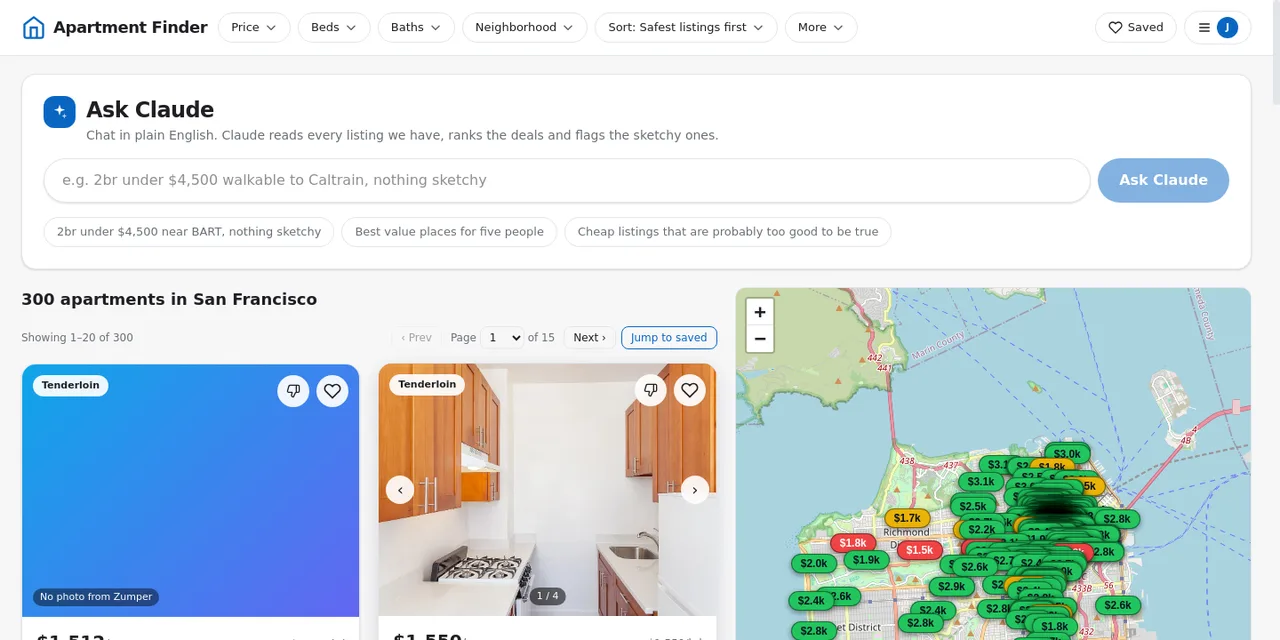
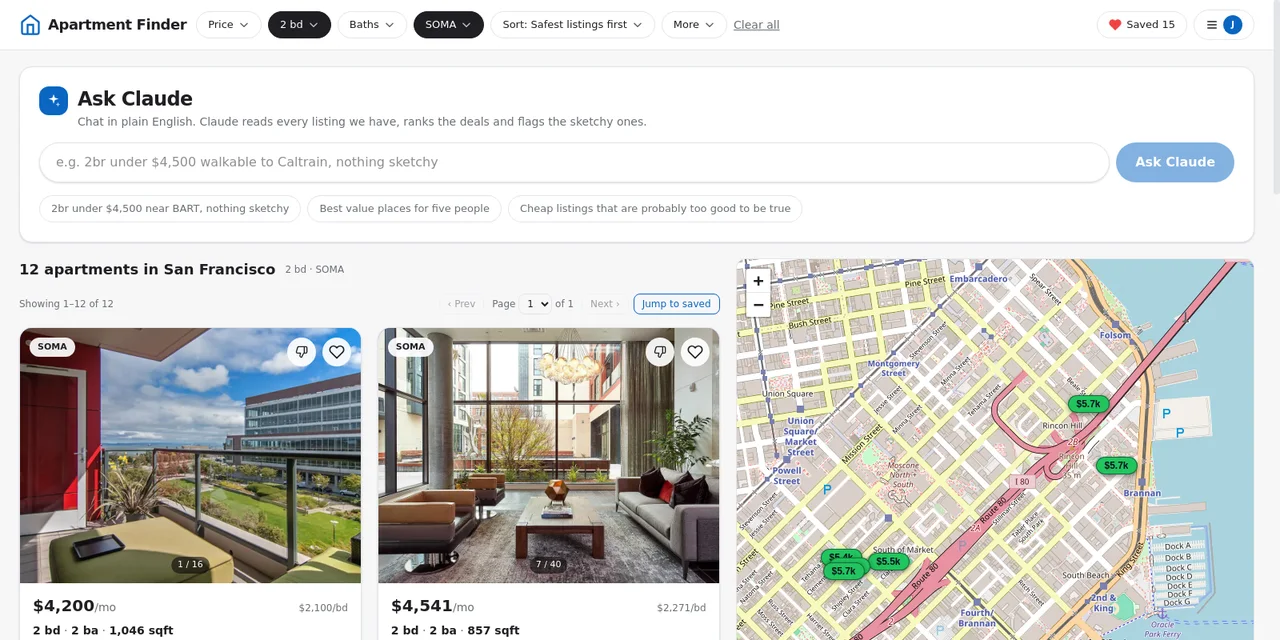
Apartment Finder: real production screenshots (hero, details, browsing)

diff --git a/projects/apartment-finder/index.html b/projects/apartment-finder/index.html
@@ -63,7 +63,7 @@
 
     <figure class="media">
       <img src="/screenshots/apartment-finder.webp" alt="Apartment Finder screenshot" width="1280" height="640" decoding="async">
-      <figcaption>The list view · filter pills, scam badge, and the map alongside</figcaption>
+      <figcaption>Signed in · Ask Claude up top, filter pills, photo cards and the map alongside</figcaption>
     </figure>
 
     <p>
@@ -87,6 +87,16 @@
       <li><strong>Claude over the inventory</strong>: natural-language questions are answered by Claude reading the stored listings through a fixed set of tools, so it ranks and filters real rows and says so when a constraint (pet policy, say) isn't something any source publishes.</li>
       <li><strong>Shared by the house</strong>: saved listings with notes and tour times (with overlap warnings), standing rules like neighborhoods the group has ruled out, named share groups, and a listing drops out of the feed once three roommates thumbs-down it.</li>
     </ul>
+
+    <figure class="media">
+      <img src="/screenshots/apartment-finder-detail.webp" alt="Two listing cards expanded to show the scam checks each passed, a street-level map, and the nearest Muni stop" width="1280" height="640" loading="lazy" decoding="async">
+      <figcaption>Details open · every check the listing passed, the block on a map, the nearest train</figcaption>
+    </figure>
+
+    <figure class="media">
+      <img src="/screenshots/apartment-finder-cards.webp" alt="Photo-led listing cards beside a map with price pins" width="1280" height="640" loading="lazy" decoding="async">
+      <figcaption>Browsing · photo cards on the left, price pins on the right</figcaption>
+    </figure>
 
     <h2>What it's made of</h2>
     <p class="stack">React · TypeScript · Vite · Tailwind · Leaflet on the front; Express · SQLite (better-sqlite3) · Node 22 on the back; Claude Code (<code>claude -p</code>) for the assistant. One process on a VPS behind HTTPS, nightly crawl in-process, secrets in the environment and never in the repo. Listing text is treated as hostile input end to end.</p>
